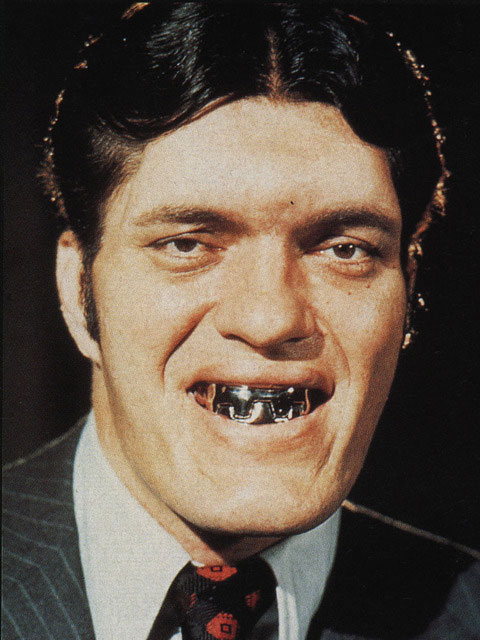
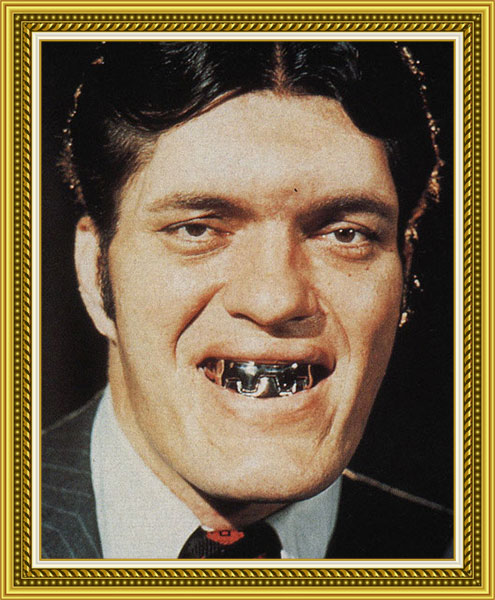
jaws with frame.

diff --git a/ci-samples/ImageSample/src/ImageSampleApp.cpp b/ci-samples/ImageSample/src/ImageSampleApp.cpp
@@ -24,6 +24,7 @@ void ImageSampleApp::setup() {
 
     gl::TextureRef texture = gl::Texture::create(loadImage(getAssetPath("jaws.jpg")));
     image = coc::ciImage::create(texture);
+    image->setInset(42);
 }
 
 void ImageSampleApp::update() {
@@ -41,7 +42,7 @@ void ImageSampleApp::update() {
 
 void ImageSampleApp::draw() {
 	
-    gl::clear(ColorA(1,1,1,1));
+    gl::clear(ColorA(0.1,0.1,0.1,1));
     
     image->draw();
     
@@ -59,7 +60,7 @@ void ImageSampleApp::keyDown(KeyEvent event) {
     
     } else if(event.getChar() == '2') {
     
-        int crop = (image->getCrop() + 1) % 4;
+        int crop = (image->getCrop() + 1) % 3;
         image->setCrop((coc::Image::Crop)crop);
     }
 }

diff --git a/src/image/cocImage.h b/src/image/cocImage.h
@@ -42,8 +42,7 @@ public:
     enum Crop {
         CropNone=0,
         CropRect,
-        CropCircle,
-        CropEllipse
+        CropCircle
     };
     
     //----------------------------------------------------------
